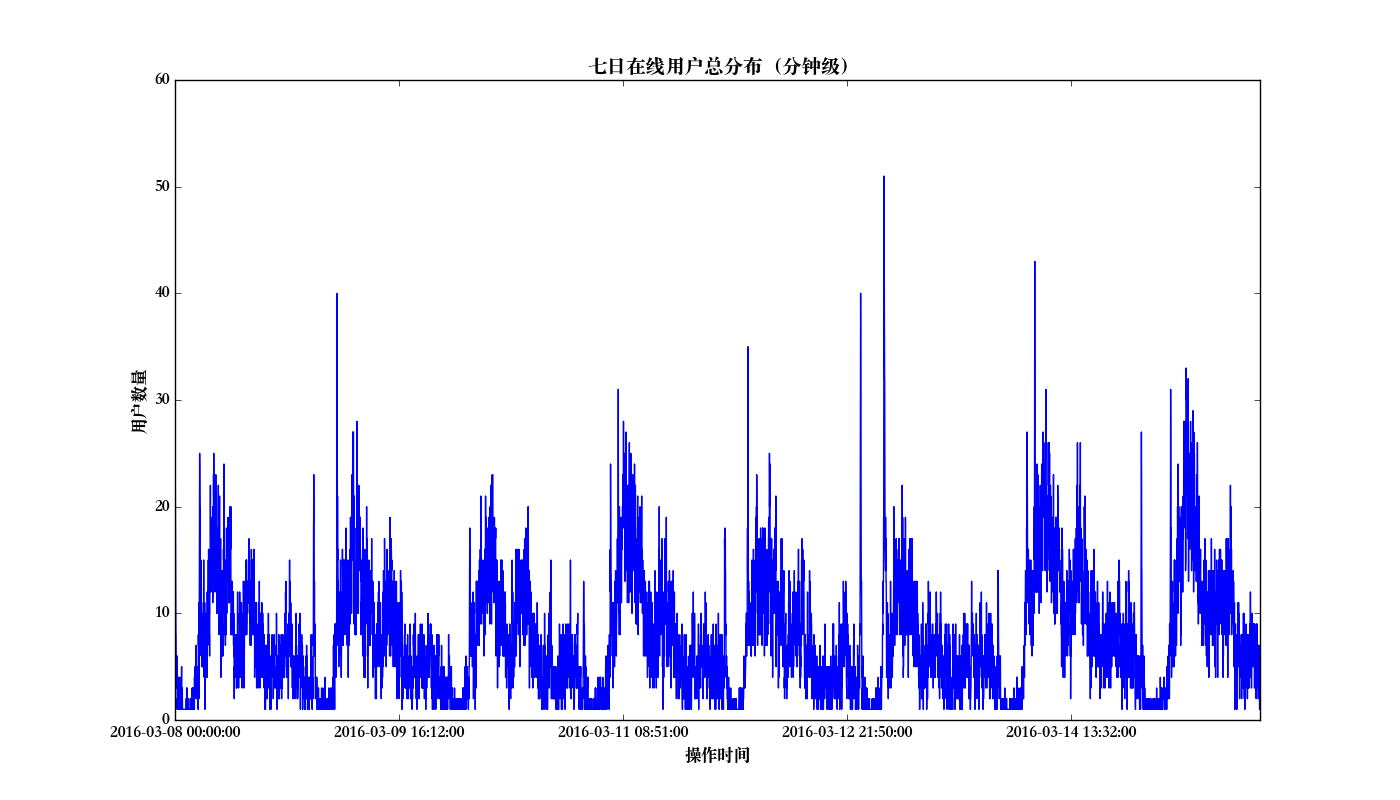
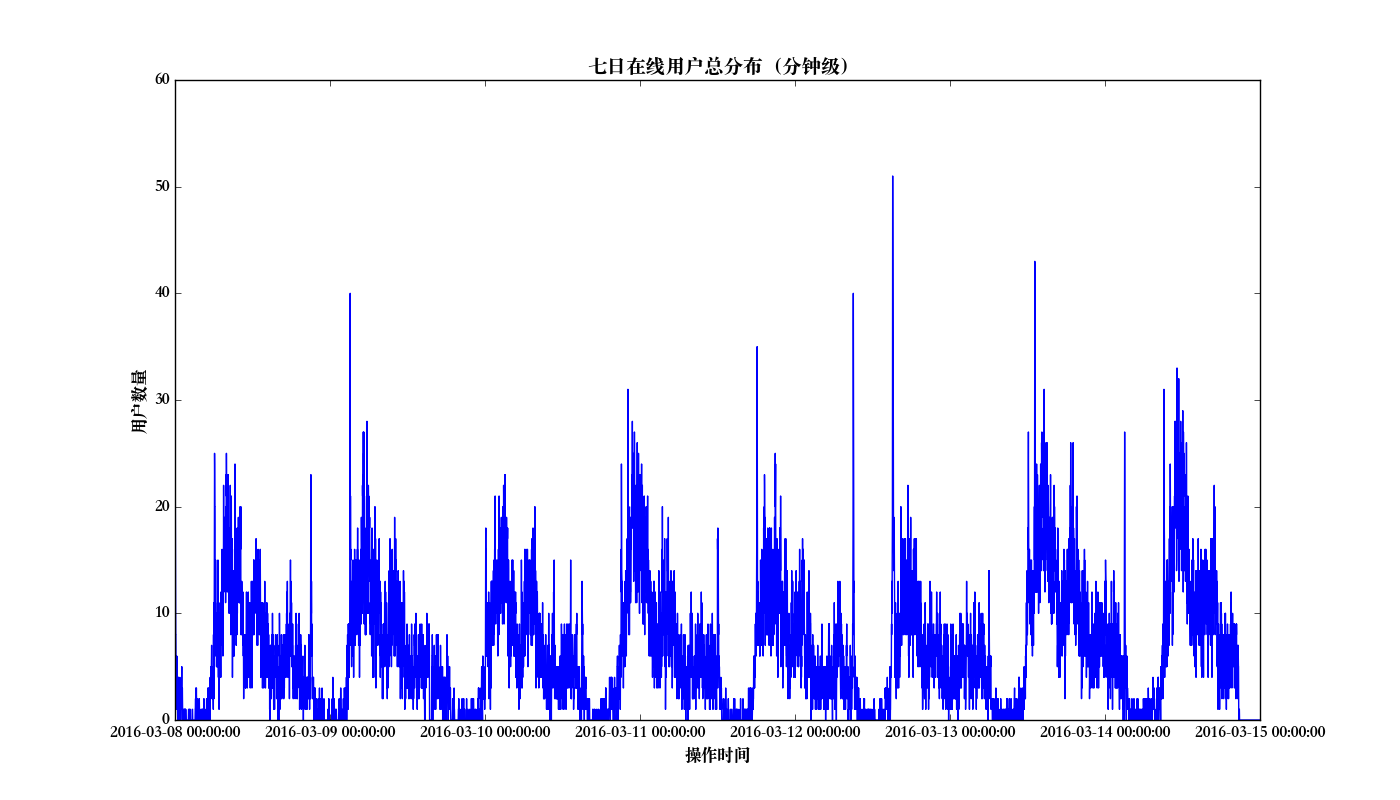
增加xticks和xticklabels在折线图中

Changed region(s): [[0.1229, 0.3438, 0.9521, 0.9375]]

diff --git a/QYWAnalysis/qyw_4th_analysis.py b/QYWAnalysis/qyw_4th_analysis.py
@@ -19,7 +19,7 @@ def cur_file_dir():
 
 cur_file_dir = cur_file_dir()
 
-import matplotlib.pylab as plt
+import matplotlib.pylab as plt, numpy as np
 from matplotlib import font_manager
 
 myFont = font_manager.FontProperties(fname='/Library/Fonts/Songti.ttc')
@@ -43,7 +43,6 @@ def drawPieChart(data, labels, title):
     print 'drawPieChart',title,'over'
 
 def drawNBarChart(data_label_colors, xindex, xlabel, ylabel, title):
-    import numpy as np
     n_groups = xindex.size
     fig, ax = plt.subplots(dpi=100, figsize=(14,8))
 
@@ -83,10 +82,10 @@ def drawNBarChart(data_label_colors, xindex, xlabel, ylabel, title):
     plt.close()
     print 'drawNBarChart',title,'over'
     
-def drawLineChart(pd_series, title, xlabel, ylabel):
+def drawLineChart(pd_series, title, xlabel, ylabel, xticks, xticklabels):
     ax = pd_series.plot(figsize=(14,8))
-    for label in ax.get_xticklabels(): #xtick
-        label.set_fontproperties(myFont)
+    #for label in ax.get_xticklabels(): #xtick
+    #    label.set_fontproperties(myFont)
     for label in ax.get_yticklabels(): #ytick
         label.set_fontproperties(myFont)
     for label in ax.get_label(): # legend
@@ -94,6 +93,8 @@ def drawLineChart(pd_series, title, xlabel, ylabel):
     ax.set_title(title, fontproperties=myFont, size=titleSize)
     ax.set_xlabel(xlabel, fontproperties=myFont, size=tipSize)
     ax.set_ylabel(ylabel, fontproperties=myFont, size=tipSize)
+    ax.set_xticks(xticks)
+    ax.set_xticklabels(xticklabels, fontproperties=myFont, size=tipSize)
     plt.savefig(cur_file_dir+'/'+title+'.png', format='png')
     plt.cla()
     plt.clf()
@@ -149,7 +150,7 @@ try:
     ####### n bar charts ######
     drawNBarChart([(publicservice_hid.values, u'登录方式', bar_colors[0])], publicservice_hid.index, u'登录方式', u'用户数量', publicservice_hid.name+u'柱状图')
     
-    ########## 使用产品时间 ##########
+    ######### 使用产品时间 ##########
     sqls = [('''
     SELECT CONCAT_WS(':',SUBSTRING_INDEX(SUBSTRING_INDEX(VISIT_TIME,' ',-1),':',2),'00') AS VISIT_TIME, COUNT(*) AS CNT FROM qyw.qyw_4th_visit GROUP BY SUBSTRING_INDEX(SUBSTRING_INDEX(VISIT_TIME,' ',-1),':',2) ORDER BY VISIT_TIME;
     ''',7,u'日均操作时间分布（分钟级）',u'操作时间',u'操作数量'),('''
@@ -162,7 +163,73 @@ try:
     for sql, divided, title, xlabel, ylabel in sqls:
         df_frame = pd.read_sql(sql, con=conn)
         df_series = pd.Series(df_frame['CNT'].values/divided, index=df_frame['VISIT_TIME'], name=title)
-        drawLineChart(df_series, df_series.name, xlabel, ylabel)
+        visit_times = []
+        cns = []
+        xticklabels = []
+        if divided == 1:
+            for i in xrange(8,16):
+                visit_day = '2016-03-'
+                if i < 10:
+                    visit_day += '0'+str(i)+' '
+                else:
+                    visit_day += str(i) + ' '
+                isXtick = True
+                for j in xrange(0,24):
+                    if j < 10:
+                        visit_hour = '0'+str(j)+':'
+                    else:
+                        visit_hour = str(j) + ':'
+                    if  j != 0:
+                        isXtick = False
+                    for k in xrange(0,60):
+                        if k < 10:
+                            visit_min = '0'+str(k)+':'
+                        else:
+                            visit_min = str(k) + ':'
+                        if  k != 0:
+                            isXtick = False
+                        visit_sec = '00'
+                        visit_time = visit_day+visit_hour+visit_min+visit_sec
+                        if isXtick:
+                            xticklabels.append(visit_time)
+                        cn = 0
+                        try:
+                            cn = df_series[visit_time]
+                            visit_times.append(visit_time)
+                            cns.append(cn)
+                        except KeyError:
+                            visit_times.append(visit_time)
+                            cns.append(cn)
+        elif divided == 7:
+            for j in xrange(0,24):
+                if j < 10:
+                    visit_hour = '0'+str(j)+':'
+                else:
+                    visit_hour = str(j) + ':'
+                isXtick = True
+                if j % 3 != 0:
+                    isXtick = False
+                for k in xrange(0,60):
+                    if k < 10:
+                        visit_min = '0'+str(k)+':'
+                    else:
+                        visit_min = str(k) + ':'
+                    if k != 0:
+                        isXtick = False
+                    visit_sec = '00'
+                    visit_time = visit_hour+visit_min+visit_sec
+                    if isXtick:
+                        xticklabels.append(visit_time)
+                    cn = 0
+                    try:
+                        cn = df_series[visit_time]
+                        visit_times.append(visit_time)
+                        cns.append(cn)
+                    except KeyError:
+                        visit_times.append(visit_time)
+                        cns.append(cn)
+        df_new_series = pd.Series(cns, index=visit_times, name=title)
+        drawLineChart(df_new_series, df_new_series.name, xlabel, ylabel, np.linspace(0, len(df_new_series), len(xticklabels)), xticklabels)
 except:
     pass
 finally:
